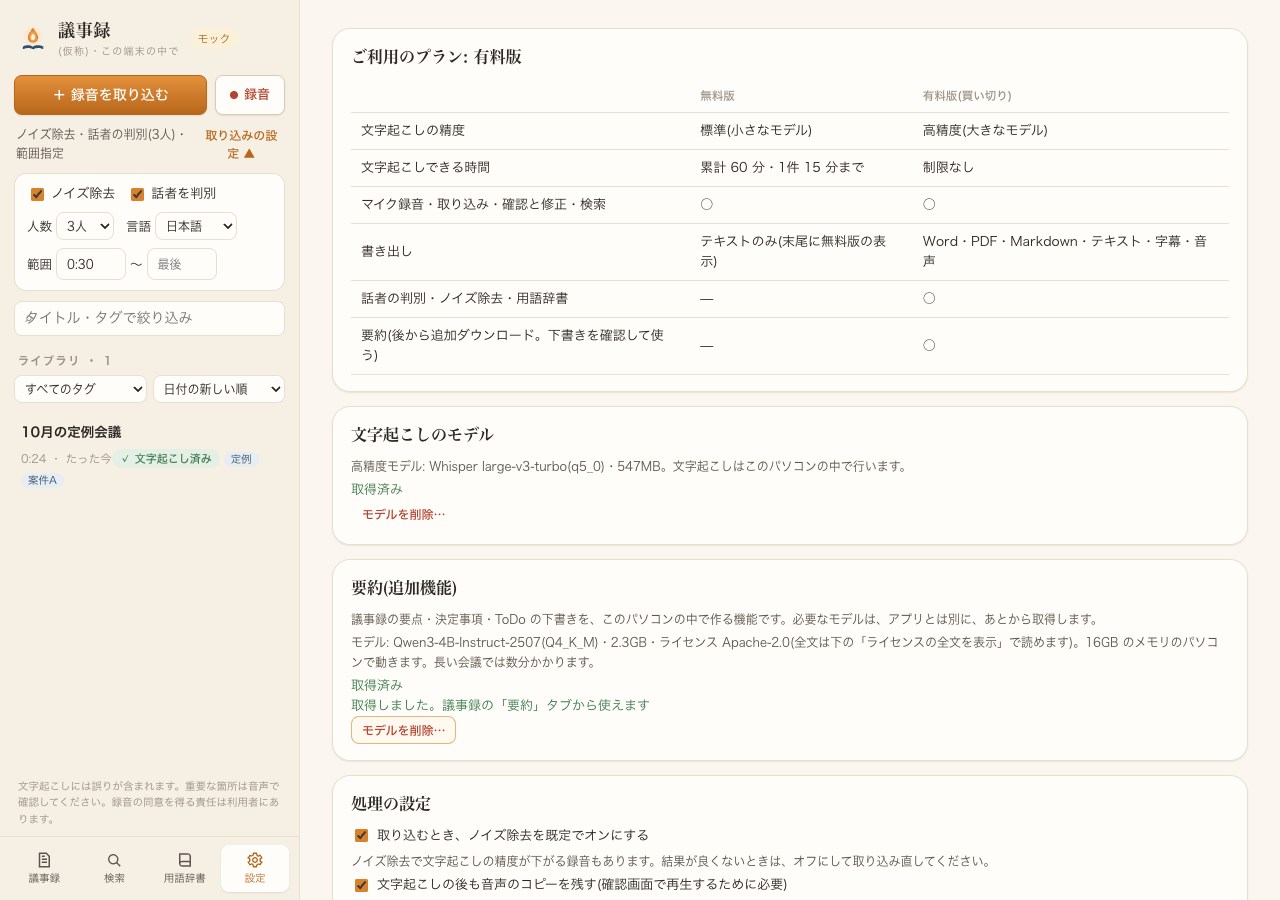
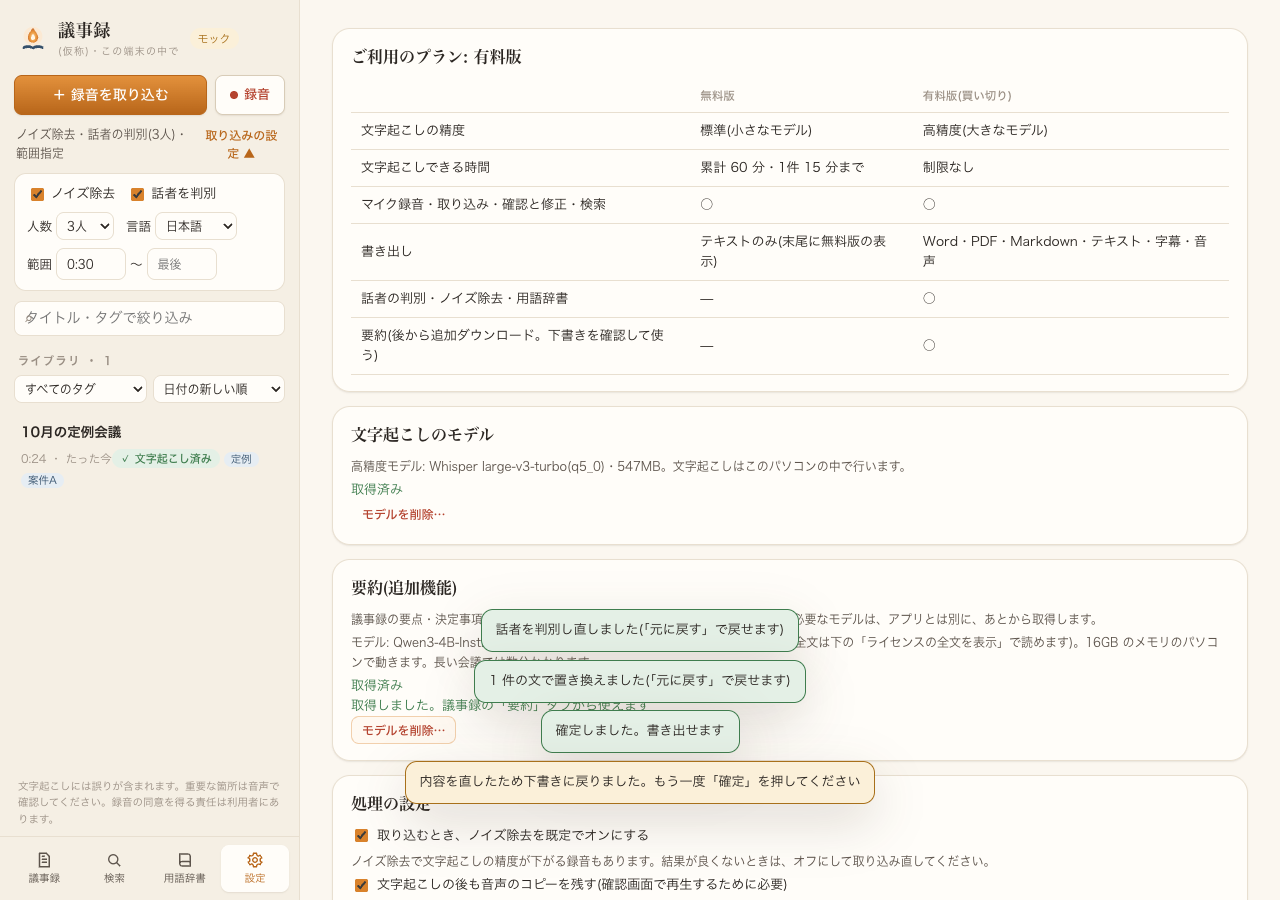
fix(minutes): 要約の取り込みを保存の順序づけ(run)とトースト通知に合わせる、画面の画像を更新

Changed region(s): [[0.3125, 0.6533, 0.6875, 0.9022]]

diff --git a/apps/minutes/ui/src/DetailView.tsx b/apps/minutes/ui/src/DetailView.tsx
@@ -743,7 +743,7 @@ export function DetailView({ api, id, version, seekTo, settings, plan, progress,
           {/* 要約は、タブを切り替えても下書き(確認前)が消えないよう、表示を隠すだけにする */}
           <div hidden={view !== "summary"}>
             <SummaryPanel api={api} d={d} plan={plan} onOpenSettings={() => onOpenSettings?.()}
-              onImport={async (n, count) => { apply(await api.updateNotes(id, n.agenda, n.decisions, n.todos)); setMsg(`${count} 件をメモに追加しました(「メモ」で確認・修正できます)`); onChanged(); }} />
+              onImport={async (n, count) => { await flush(); const x = await run(() => api.updateNotes(id, n.agenda, n.decisions, n.todos), `${count} 件をメモに追加しました(「メモ」で確認・修正できます)`); if (!x) throw new Error("メモに追加できませんでした"); }} />
           </div>
         </div>
       </div>
